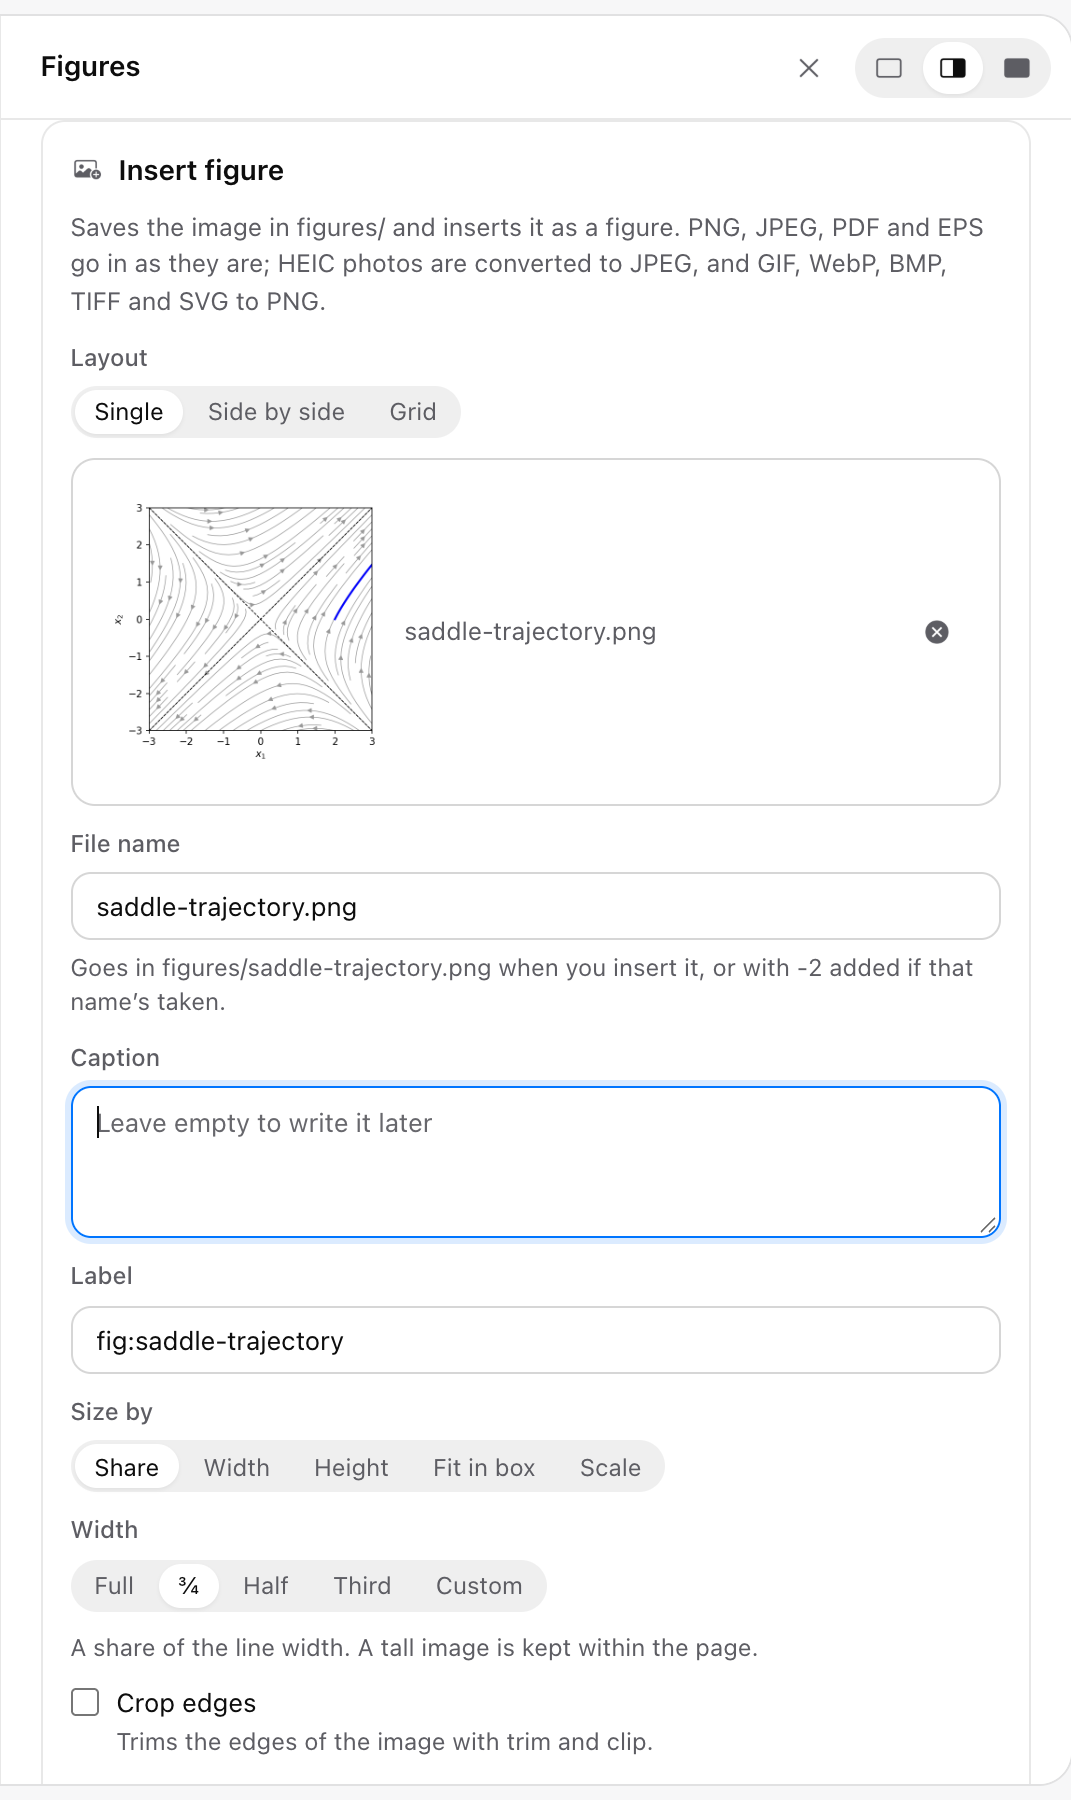
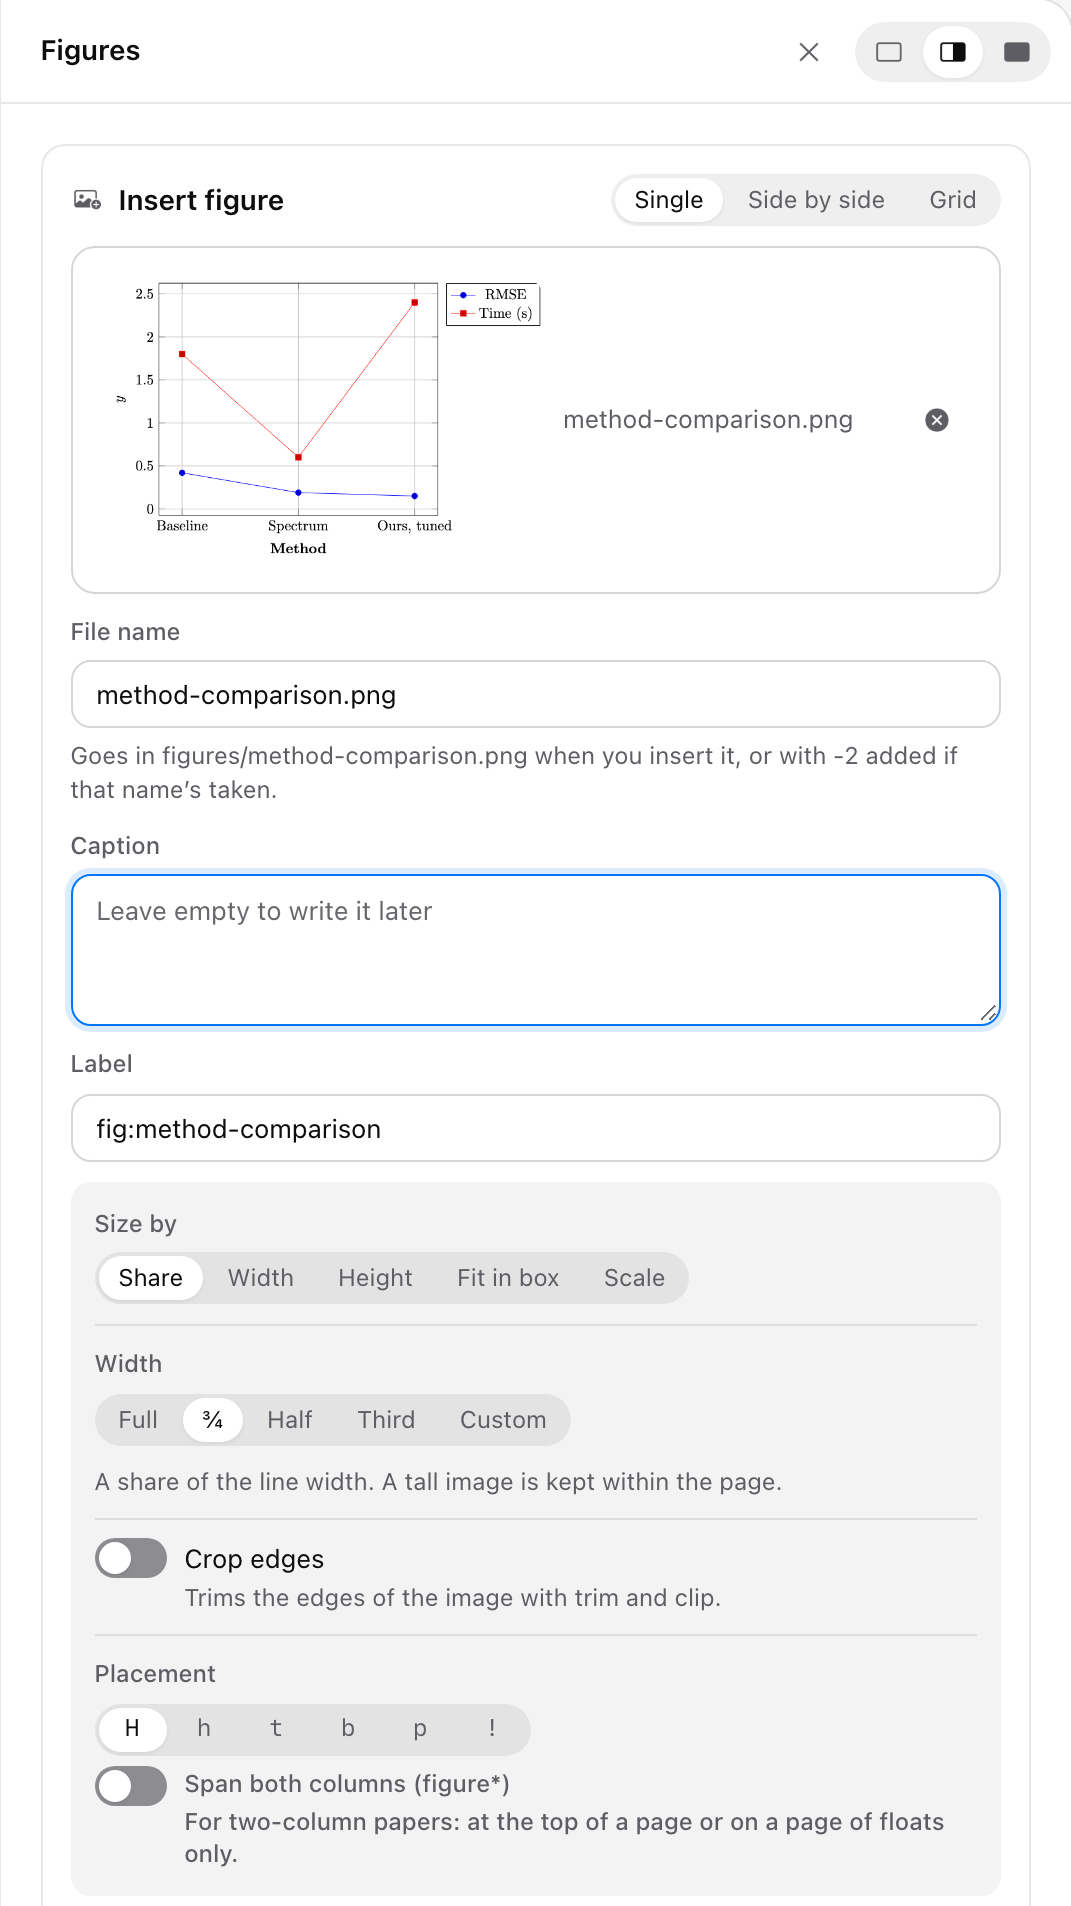
Handbook: Figures, Tables, Plot's Import table and the chooser's drawings
Retakes the figure and table cards, the table source and the chooser; adds Import
table to the Plots chapter; Table to chart and Image to LaTeX in the Floats panel go.
README drops its Table to chart trouble-shooting.

diff --git a/README.md b/README.md
@@ -43,10 +43,6 @@ Applications opened from Finder do not receive the `PATH` that Terminal uses. Sp
 
 The spell checker is a compiled add-on and the grammar checker a WebAssembly module, both loaded by the backend when they are first needed. If one cannot load, the editor shows the reason once and carries on without it. The details are in the backend log, at `~/Library/Logs/com.beyond3345.spectrum/backend.log` in the app. Rebuilding with `npm run native:build` fixes a missing or damaged file in a copy built from source.
 
-### The table to chart tool fails
-
-The tool runs Python with matplotlib. Install it with `pip install matplotlib`, or set `SPECTRUM_PYTHON` to a Python that already has it.
-
 ## Acknowledgements and licence
 
 Spectrum is based on OpenPrism by OpenDCAI. Many ideas in Spectrum's later versions, such as the agent workspace, the preflight checks, Zotero and source control, were inspired by [Oleafly](https://github.com/Oleafly/Oleafly) by Prajwal Murthy and contributors, and the circuit drawing in the diagram composer by [CircuiTikZ-Designer](https://github.com/Circuit2TikZ/CircuiTikZ-Designer). Thank you to both teams for building them in the open. Oleafly is released under the GNU Affero General Public License and CircuiTikZ-Designer under the GNU General Public License, so Spectrum learns from their designs but contains none of their code. Spectrum uses CodeMirror, PDF.js, Fastify, LangGraph and Tauri, runs TexLab beside it as a separate program, checks spelling with Hunspell (through a binding of Spectrum's own), SCOWL and AussieDic and grammar with Harper, and bundles the JetBrains Mono, Fira Code, IBM Plex Mono and Source Code Pro fonts. The editor themes reuse the colours of the themes they are named after. Their licences are listed in [THIRD_PARTY_NOTICES.md](THIRD_PARTY_NOTICES.md). The interface icons are drawn from Apple's SF Symbols, which are licensed for use in applications on Apple platforms.
